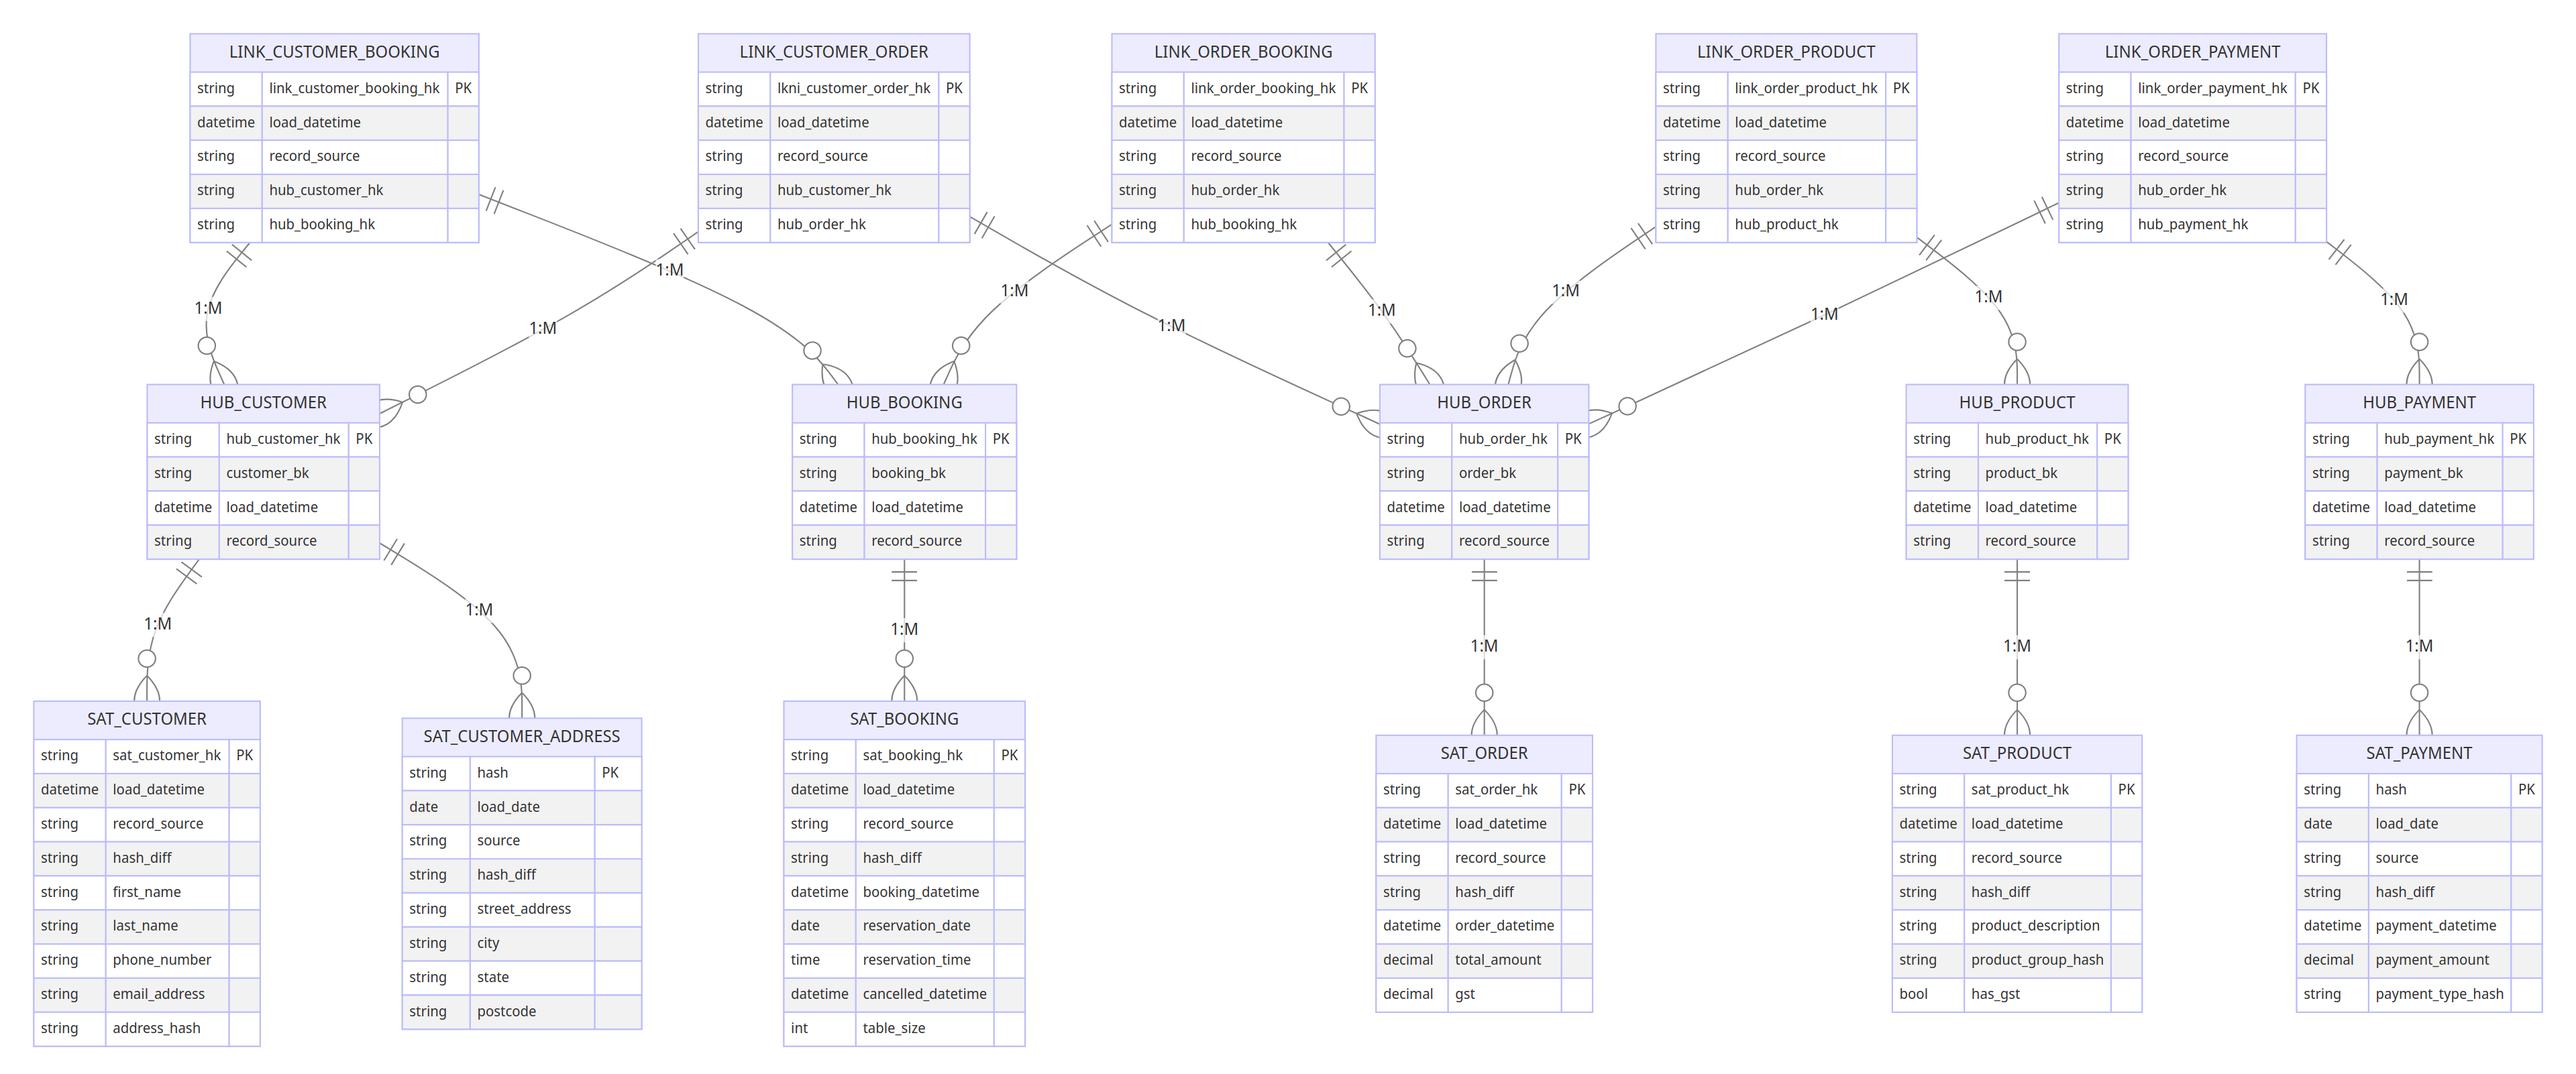
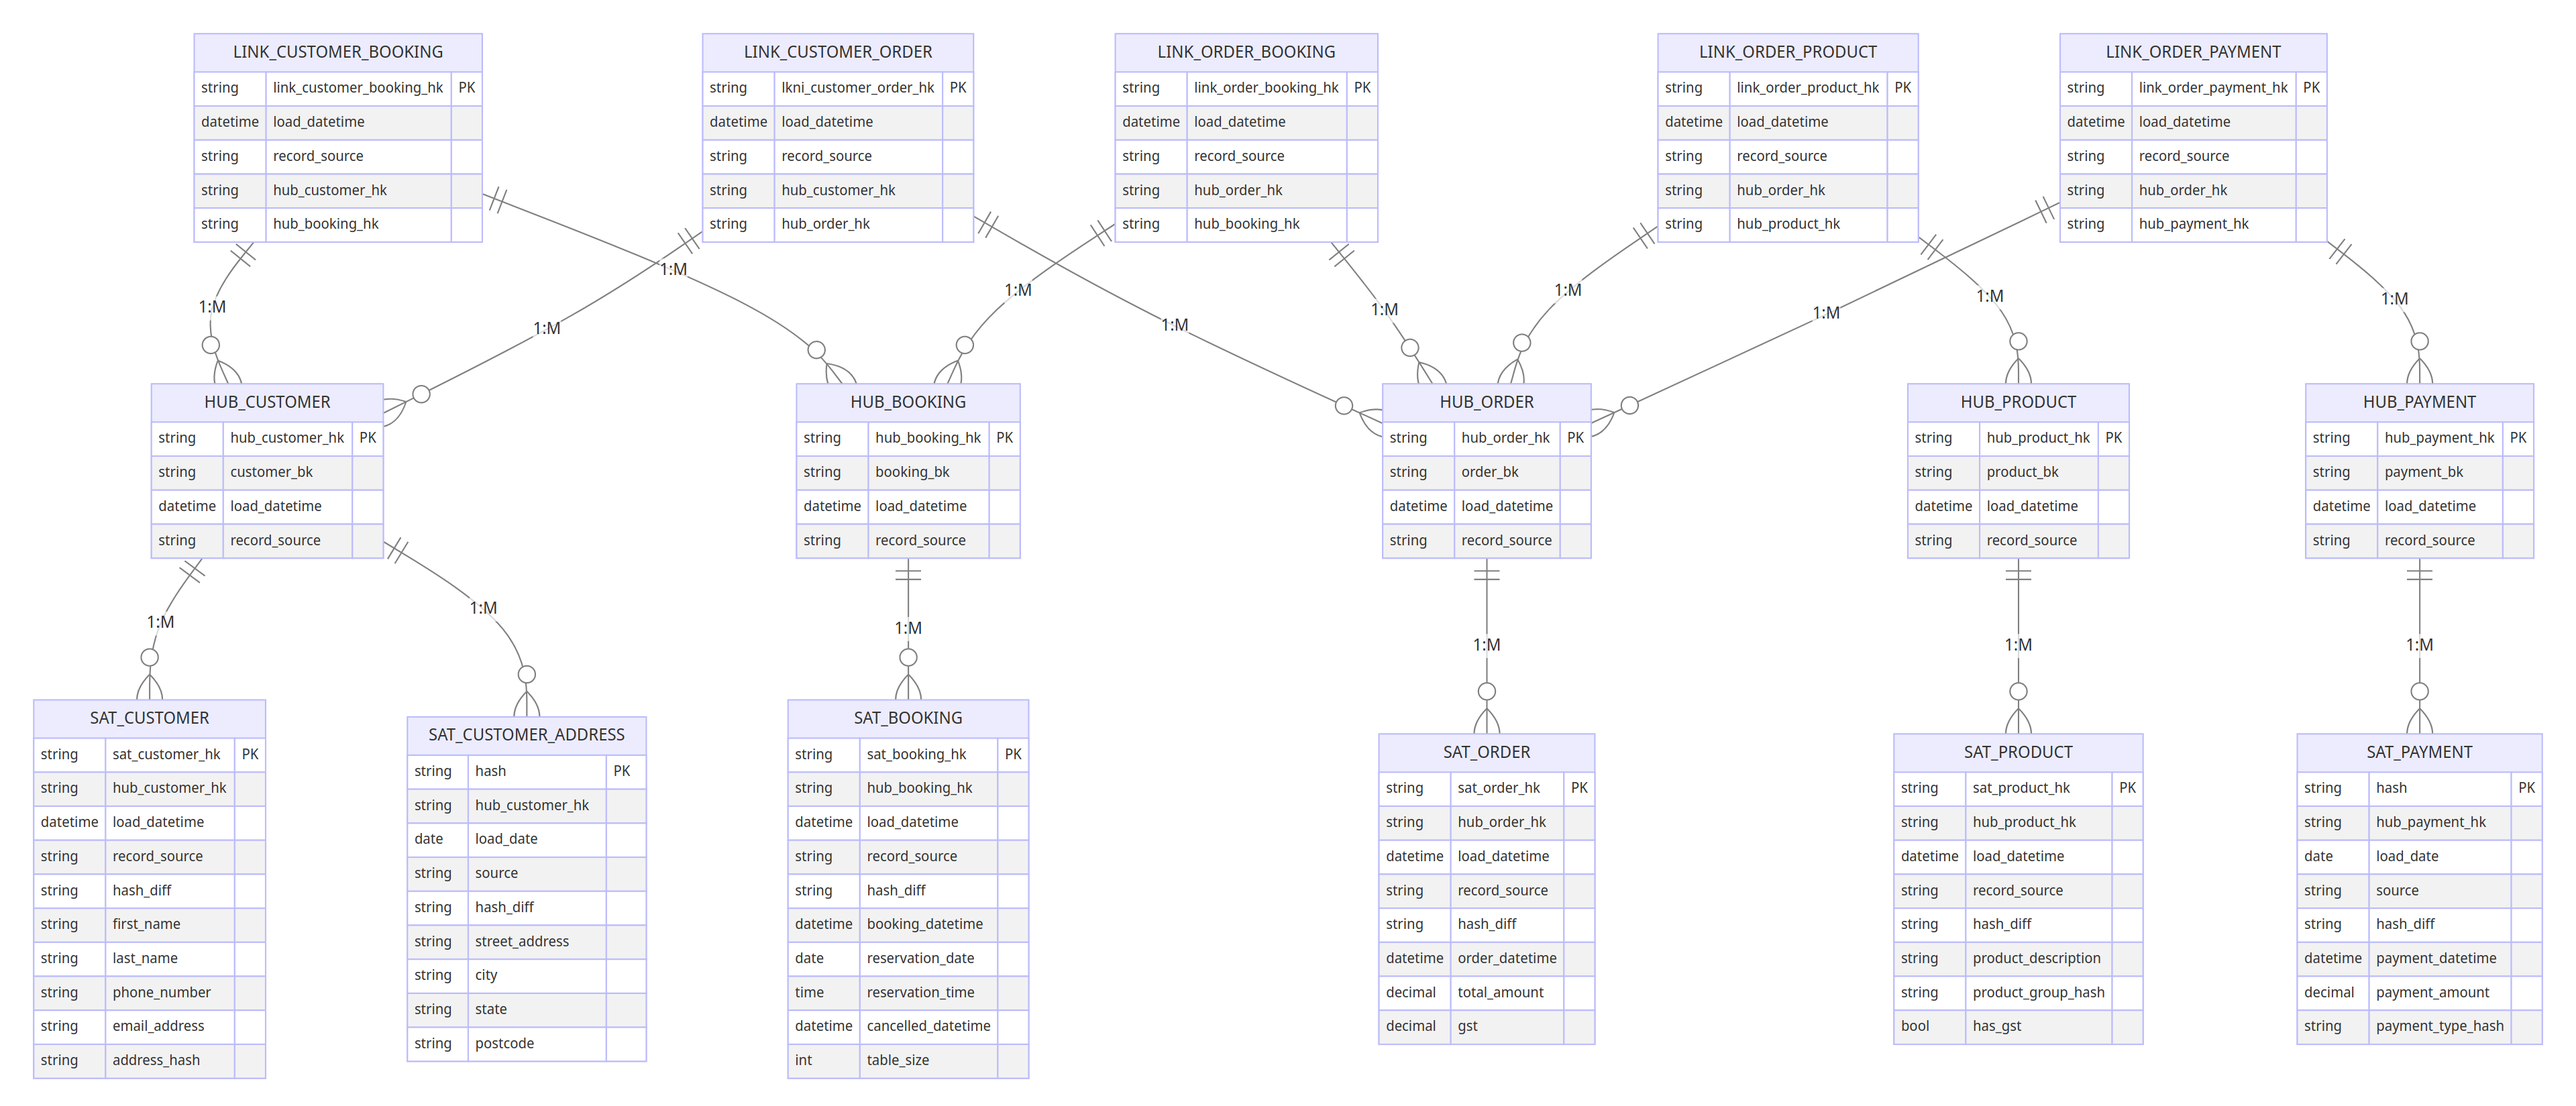
Update dv

diff --git a/mermaid_md/data_vault.md b/mermaid_md/data_vault.md
@@ -76,6 +76,7 @@ erDiagram
 
   SAT_CUSTOMER {
     string sat_customer_hk PK
+    string hub_customer_hk
     datetime load_datetime
     string record_source
     string hash_diff
@@ -88,6 +89,7 @@ erDiagram
 
   SAT_BOOKING {
     string sat_booking_hk PK
+    string hub_booking_hk
     datetime load_datetime
     string record_source
     string hash_diff
@@ -100,6 +102,7 @@ erDiagram
 
   SAT_ORDER {
     string sat_order_hk PK
+    string hub_order_hk
     datetime load_datetime
     string record_source
     string hash_diff
@@ -110,6 +113,7 @@ erDiagram
 
   SAT_PRODUCT {
     string sat_product_hk PK
+    string hub_product_hk
     datetime load_datetime
     string record_source
     string hash_diff
@@ -120,6 +124,7 @@ erDiagram
 
   SAT_PAYMENT {
     string hash PK
+    string hub_payment_hk
     date load_date
     string source
     string hash_diff
@@ -130,6 +135,7 @@ erDiagram
 
   SAT_CUSTOMER_ADDRESS {
     string hash PK
+    string hub_customer_hk
     date load_date
     string source
     string hash_diff
